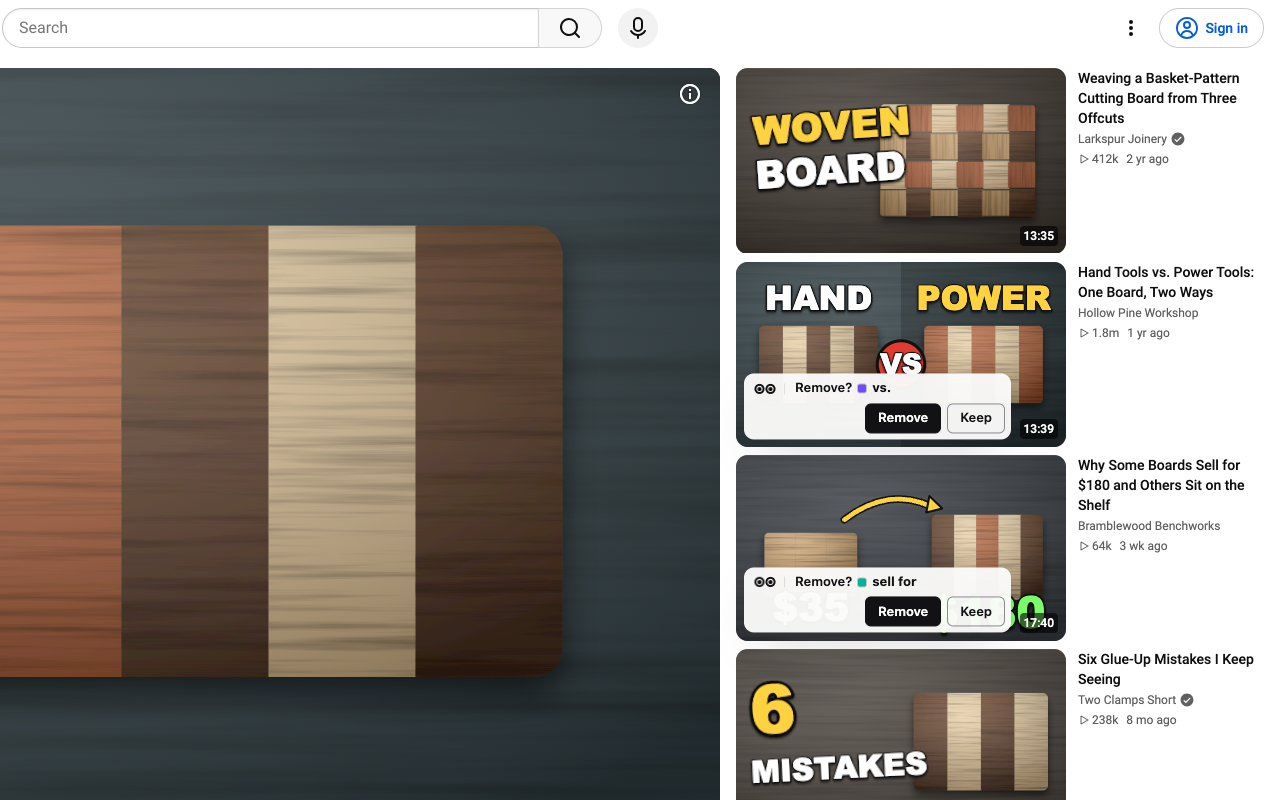
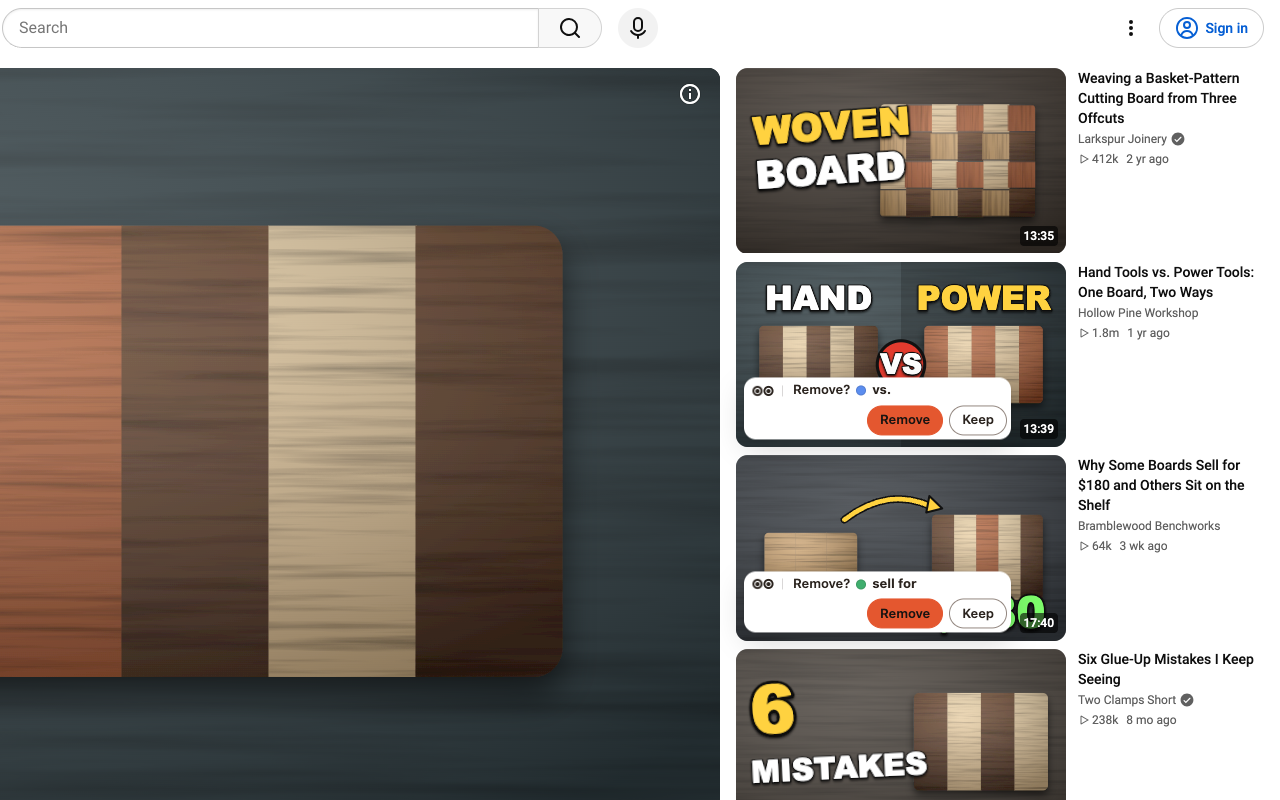
Re-shoot the store screenshots, promo tile and README mocks
Churn: captured from the current build the same way as before, so
they show the new look and screenshot 5 shows the consent that names
Bilibili. The store packs describe the new captures.

Changed region(s): [[0.5938, 0.6875, 0.7812, 0.8125], [0.5625, 0.4688, 0.7812, 0.5625]]

diff --git a/docs/release/chrome-web-store.md b/docs/release/chrome-web-store.md
@@ -70,19 +70,19 @@ English. The extension also ships a Simplified Chinese UI (`_locales/zh_CN`), wh
 | Asset | File | Notes |
 |---|---|---|
 | Store icon 128×128 | `public/icon/128.png` (also in the package) | Shoo's eyes mark. No YouTube logo or red play button |
-| Small promo tile 440×280 (**required**) | `docs/release/screenshots/promo-small-440x280.png` | Icon, wordmark and one line. Made for this pack |
+| Small promo tile 440×280 (**required**) | `docs/release/screenshots/promo-small-440x280.png` | Wordmark and one line on the page ground, in Figtree. Made for this pack |
 | Marquee 1400×560 | none | Optional |
 | Screenshots 1280×800 (1 to 5) | see below | All five slots used |
 
 ### Screenshots
 
-All 1280×800 PNG, no alpha, from the built extension in a fresh Chrome profile with "Use Exact rules only" and Exact rules written for the capture. No OpenRouter key, no real user data. Screenshot 3 was captured on 2026-10-10 (Chrome 155, puppeteer-core). Screenshot 5 was captured on 2026-11-04 (Chrome for Testing 150, puppeteer-core) at 1680×1050 and scaled to 1280×800. Screenshots 1, 2 and 4 were captured on 2026-11-04 (Chrome for Testing 150, puppeteer-core) on the fixture pages (`test/fixtures/youtube/page-watch.html`, `page-home.html`) served at youtube.com, with synthetic titles, channels and generated thumbnails and a minimal page style of our own, so no third-party thumbnails or titles appear. All five were taken before Bilibili support and the redesign, so they show the old look and screenshot 5 shows consent text that does not name Bilibili. All five are to be re-shot from the current build the same way before submission.
+All 1280×800 PNG, no alpha, from the built extension in a fresh Chrome profile with "Use Exact rules only" and Exact rules written for the capture. No OpenRouter key, no real user data. All five were captured on 2026-11-04 from the current build (Chrome for Testing 150, puppeteer-core). Screenshots 1, 2, 3 and 4 come from one run on the fixture pages (`test/fixtures/youtube/page-watch.html`, `page-home.html`) served at youtube.com, with synthetic titles, channels and generated thumbnails and a minimal page style of our own, so no third-party thumbnails or titles appear. Screenshot 5 was captured at 1680×1050 and scaled to 1280×800.
 
 | # | File | Shows | Staged? |
 |---|---|---|---|
 | 1 | `screenshots/1-review-chip.png` | Review chip "Remove?" with the Rule's swatch and label ("cartoon", the Rule's text, no R-number), Remove and Keep, on a Watch sidebar video | Fixture page, synthetic Rules. The thumbnail must be wide enough for the full chip |
 | 2 | `screenshots/2-popup.png` | Toolbar popup: On, Mode switch (Review), today's counts, "Shoo only uses Exact rules", Add a rule | **Composite**: the popup page placed over screenshot 1 where the toolbar popup would open. The popup shows 0 judged when only Exact rules ran (the counter counts model-judged videos) |
-| 3 | `screenshots/3-settings-rules.png` | Settings, Rules: five Exact rules (keywords episode, cartoon, compilation, for kids, and Shorts) | Synthetic Rules. Mode reads Dry-run because the capture switched Mode to fill Activity |
+| 3 | `screenshots/3-settings-rules.png` | Settings, Rules: Try a title above the first four of five Exact rules (Shorts, and the keywords cartoon, episode and compilation, with for kids below the fold) | Synthetic Rules. Mode reads Dry-run because the capture switched Mode to fill Activity |
 | 4 | `screenshots/4-activity.png` | Activity: Would remove rows with the Rule that matched, Keep and Always keep this channel | Synthetic Rules, Dry-run results on the fixture pages |
 | 5 | `screenshots/5-onboarding-consent.png` | Onboarding step 1: what Shoo does, What Shoo sends, Agree and continue, Use Exact rules only | Real page, captured 2026-11-04 at 1680×1050 so the whole disclosure fits, then scaled to 1280×800 with no other edits. This is the in-product disclosure CWS asks for |
 

diff --git a/PRODUCT.md b/PRODUCT.md
@@ -53,7 +53,7 @@ Existing extensions in this space ("Not Interested!", "Nah", "Nope", "UnFeed") a
 
 ## Evidence on Hand
 
-No real users, testimonials or usage metrics exist yet. The five store screenshots in `docs/release/screenshots/` use synthetic Tiles, Rules and Activity on rebuilt YouTube pages (`docs/release/chrome-web-store.md`, Screenshots). They predate Bilibili support and the redesign, so they are to be re-shot before submission. The README's `mock-*.png` screenshots were taken on a real youtube.com Watch page with every title, channel, view count, age, thumbnail and avatar replaced by made-up ones before the page loaded, video streams blocked and the player's controls, play button and watermark hidden, and the README says so. Any other demonstration content must be synthetic and labelled as such. Cost and latency figures come from the calibration harness on synthetic Tiles (`scripts/calibration/`), not from real use.
+No real users, testimonials or usage metrics exist yet. The five store screenshots in `docs/release/screenshots/` use synthetic Tiles, Rules and Activity on rebuilt YouTube pages (`docs/release/chrome-web-store.md`, Screenshots). The README's `mock-*.png` screenshots were taken on a real youtube.com Watch page with every title, channel, view count, age, thumbnail and avatar replaced by made-up ones before the page loaded, video streams blocked and the player's controls, play button and watermark hidden, and the README says so. Any other demonstration content must be synthetic and labelled as such. Cost and latency figures come from the calibration harness on synthetic Tiles (`scripts/calibration/`), not from real use.
 
 ## Product Principles
 

diff --git a/docs/release/amo.md b/docs/release/amo.md
@@ -28,7 +28,7 @@ Unlisted ("On your own") signing needs none of this except the sources and revie
 | Summary | `Write what you don't want to see. Shoo tells YouTube and Bilibili "Not interested" for you, and shows which rule did it.` | 120 of 250. No URLs allowed (none present) |
 | Description | Same text as `docs/release/chrome-web-store.md`, Description | 15,000 characters. AMO accepts limited Markdown, the plain list renders as is |
 | Categories (up to 2) | **Photos, Music & Videos**. Optional second: **Other** | |
-| Screenshots | Five 1280×800 PNGs (AMO's recommended size) in `docs/release/screenshots/`, listed in `chrome-web-store.md`, Screenshots. They predate Bilibili support and the redesign, so all five are to be re-shot before submission | No count limit |
+| Screenshots | Five 1280×800 PNGs (AMO's recommended size) in `docs/release/screenshots/`, listed in `chrome-web-store.md`, Screenshots. | No count limit |
 | Support email / site | `shoo@piran.xyz`, https://github.com/Laoweek/shoo/issues | |
 | License | Apache-2.0 (`LICENSE`, and `license` in `package.json`) | Required for a listed version |
 | Privacy policy | https://laoweek.github.io/shoo/release/privacy-policy.html, or paste the text of `docs/release/privacy-policy.md` | Required when data leaves the device |
